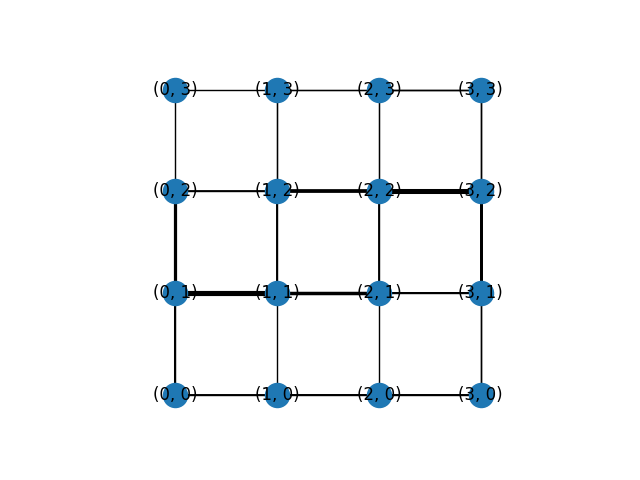
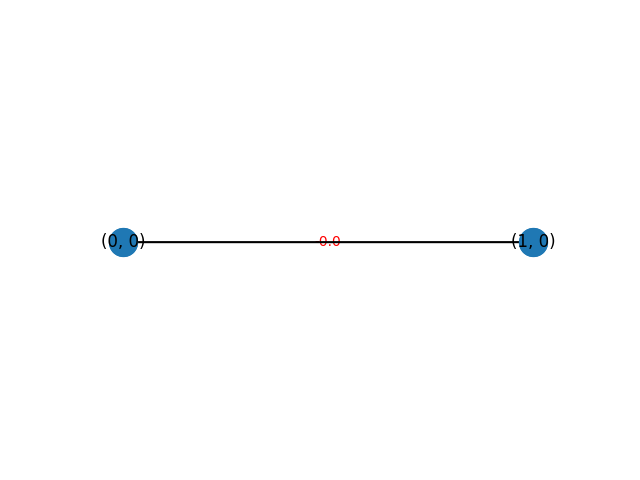
implementing constraint

Changed region(s): [[0.1562, 0.1562, 0.875, 0.875]]

diff --git a/Angiogenesis.py b/Angiogenesis.py
@@ -76,11 +76,11 @@ def generate_physical_values(graph, source_value, incidence_matrix, corridor_mod
     # source in one node on the left and sink in one node on the right -- resulting in a corridor between them
     if corridor_model:
         source_list = np.zeros(dimension)             # vector from nodes space
-        source_list[int(np.sqrt(dimension)/2)-1] = source_value
-        source_list[dimension-int(np.sqrt(dimension)/2)] = -source_value
-        print(dimension)
-        print(int(np.sqrt(dimension)/2)-1)
-        print(dimension-int(np.sqrt(dimension)/2))
+        source_list[0] = source_value
+        source_list[dimension-1] = -source_value
+        #print(dimension)
+        #print(int(np.sqrt(dimension)/2)-1)
+        #print(dimension-int(np.sqrt(dimension)/2))
         #print("SOURCE", source_list)
 
 
@@ -285,14 +285,14 @@ def checking_Kirchhoffs_law(graph, source_list, flow_list):
             else:
                 sum -= graph[edge[0]][edge[1]]['flow']
                 #print("ELSE", edge, '|',  np.sum(edge[0]), '|',  np.sum(edge[1]), '|',  -graph.get_edge_data(*edge)['flow'])
-        if -1e-6 < sum - source_list[index] < 1e-6:
+        if -1e-6 < sum + source_list[index] < 1e-6:
             #print("Kirchhoff's law at node {} fulfilled".format(node))
             #print(sum, '    |', source_list[index], '    |', print(node))
             successful_nodes += 1
         else:
             pass
             print(sum, '|', source_list[index], '|', print(node))
-            #print("Kirchhoff's law at node {} NOT fulfilled!".format(node), sum - source_list[index])
+            #print("Kirchhoff's law at node {} NOT fulfilled!".format(node), sum + source_list[index])
         index += 1
     print("number of nodes fulfilling K's law:", successful_nodes, 'out of', graph.number_of_nodes())
     if successful_nodes == graph.number_of_nodes():
@@ -321,6 +321,8 @@ def run_simulation(source_value, m, pos, nodes_data, edges_data, x, x_dagger, in
     # np.exp(r*t*delta/2)
     t = 0
 
+
+
     # two control parameters
     rho = b/(r*gamma*delta)   # the ratio between the time scales for adaptation and growth
     print("RHO: ", rho)
@@ -343,6 +345,8 @@ def run_simulation(source_value, m, pos, nodes_data, edges_data, x, x_dagger, in
     number_of_removed_edges = 0
     number_of_removed_nodes = 0
 
+    lagrange_multiplier = 2
+    flow_from_lagrange_optimisation = np.sqrt(lagrange_multiplier)*np.sqrt(1/gamma +1)*np.float_power(conductivity_list, 1/(2*gamma))
     for n in range(1, N+1):
         t += dt
         if n!= 0 and n!= N and n == N/2:
@@ -361,7 +365,7 @@ def run_simulation(source_value, m, pos, nodes_data, edges_data, x, x_dagger, in
             for node in dict(graph.nodes).copy():           # for reasons unknown I had to cast graph.nodes into dict
                                                             # and use dictionary method copy() to get away with error
                                                             # "RuntimeError: dictionary changed size during iteration"
-                                                            # but it with edges it worked just fine
+                                                            # but with edges it worked just fine
                 neighbors = set(nx.neighbors(graph, node))
                 #print(len(neighbors))
                 if len(neighbors) == 0:
@@ -372,7 +376,8 @@ def run_simulation(source_value, m, pos, nodes_data, edges_data, x, x_dagger, in
 
 
         # dK/dt = a*(q / q_hat)^(2*gamma) - b * K + c
-        dK = dt * (np.float_power(a * (np.abs(flow_list) / flow_hat), (2 * gamma)) - b * conductivity_list + c * np.ones(len(flow_list)))
+        #dK = dt * (np.float_power(a * (np.abs(flow_list) / flow_hat), (2 * gamma)) - b * conductivity_list + c * np.ones(len(flow_list)))
+        dK = dt * (np.float_power(a * (np.abs(flow_from_lagrange_optimisation) / flow_hat), (2 * gamma)) - b * conductivity_list + c * np.ones(len(flow_list)))
         conductivity_list += dK
 
         x = incidence_matrix @ np.diag(1/length_list) @ np.diag(conductivity_list) @ incidence_T
@@ -387,6 +392,10 @@ def run_simulation(source_value, m, pos, nodes_data, edges_data, x, x_dagger, in
         # updating data in graph dics
         set_attributes(graph, pressure_list, length_list, conductivity_list, flow_list, pressure_diff_list)
 
+        #dEdF_lam_dgdF = np.sum(flow_list) / np.sum(conductivity_list)    # checking first eq from lagrange optimisation
+        #print(dEdF_lam_dgdF)
+
+
     energy_functional(conductivity_list, length_list, flow_list, gamma, show_result=True)
     print('simulation time: ', t, ' seconds')
     print("number of removed edges: ", number_of_removed_edges)
@@ -398,9 +407,14 @@ def run_simulation(source_value, m, pos, nodes_data, edges_data, x, x_dagger, in
 
 def draw_graph(graph, name, pos, conductivity_list, n):
     if len(conductivity_list) < 100:
-        nx.draw_networkx(graph, pos=pos)
-        nx.draw_networkx_nodes(graph, pos=pos, node_size=300/(2*n))
-        nx.draw_networkx_edges(graph, pos=pos, width=conductivity_list)  #, edge_color=flow_list   + np.ones(len(conductivity_list))  np.float_power(conductivity_list, 4)
+        labels = nx.get_edge_attributes(graph, 'flow')
+        for key, val in labels.items():
+            new_val = round(val, 2)
+            labels[key] = new_val
+        nx.draw_networkx_edge_labels(graph, pos, edge_labels=labels, rotate=False, font_color='red')
+        nx.draw_networkx(graph, pos=pos, node_size=400/(n))
+        nx.draw_networkx_nodes(graph, pos=pos, node_size=400/(n))
+        nx.draw_networkx_edges(graph, pos=pos, width=np.float_power(conductivity_list, 1/4))  #, edge_color=flow_list   + np.ones(len(conductivity_list))  np.float_power(conductivity_list, 4)
     else:
         #nx.draw_networkx(graph, pos=pos)
         nx.draw_networkx_nodes(graph, pos=pos, node_size=200 / (2 * n))

diff --git a/Simulation.py b/Simulation.py
@@ -7,17 +7,17 @@ start_time = time.time()
 
 hexagonal = 0
 triangular = 0
-m = 4
+m = 1
 number_of_nodes = m*m
 #adjacency_matrix = an.generate_random_adjacent_matrix(number_of_nodes)
 # random graph
 #incidence_matrix, graph, nodes_data, edges_data = an.generate_graph(adjacency_matrix)
 
 # generate lattice
-incidence_matrix, graph, nodes_data, edges_data = an.generate_grid_graph(m, m, hexagonal=hexagonal, triangular=triangular)
+incidence_matrix, graph, nodes_data, edges_data = an.generate_grid_graph(m, 2*m, hexagonal=hexagonal, triangular=triangular)
 #graph.remove
 
-source_value = 10
+source_value = 2
 incidence_T_inv, x, x_dagger, incidence_inv, incidence_T, source_list, pressure_list, length_list, conductivity_list, flow_list, pressure_diff_list = \
     an.generate_physical_values(graph, source_value, incidence_matrix, corridor_model=1, two_capacitor_plates_model=0, one_capacitor_plates_model=0, quater_model=0, triangular=triangular)
 
@@ -44,7 +44,7 @@ print(edges_data)
 print(nodes_data)
 
 # dK/dt = a*(q / q_hat)^(2*gamma) - b * K + c
-parameters_set = {'a': 1.9, 'b': 1.3, 'gamma': 2/3, 'delta': 1.1, 'nu': 1.1, 'flow_hat': 1.1, 'c': 0.01, 'r': 1.1, 'dt': 0.01, 'N': 40}
+parameters_set = {'a': 2.9, 'b': 1.3, 'gamma': 2/3, 'delta': 1.1, 'nu': 1.1, 'flow_hat': 1.1, 'c': 0.01, 'r': 1.1, 'dt': 0.01, 'N': 40}
 
 graph, conductivity_list = an.run_simulation(source_value, m, pos, nodes_data, edges_data, **arguments, **parameters_set, is_scaled=True, with_pruning=False)
 print(edges_data)
